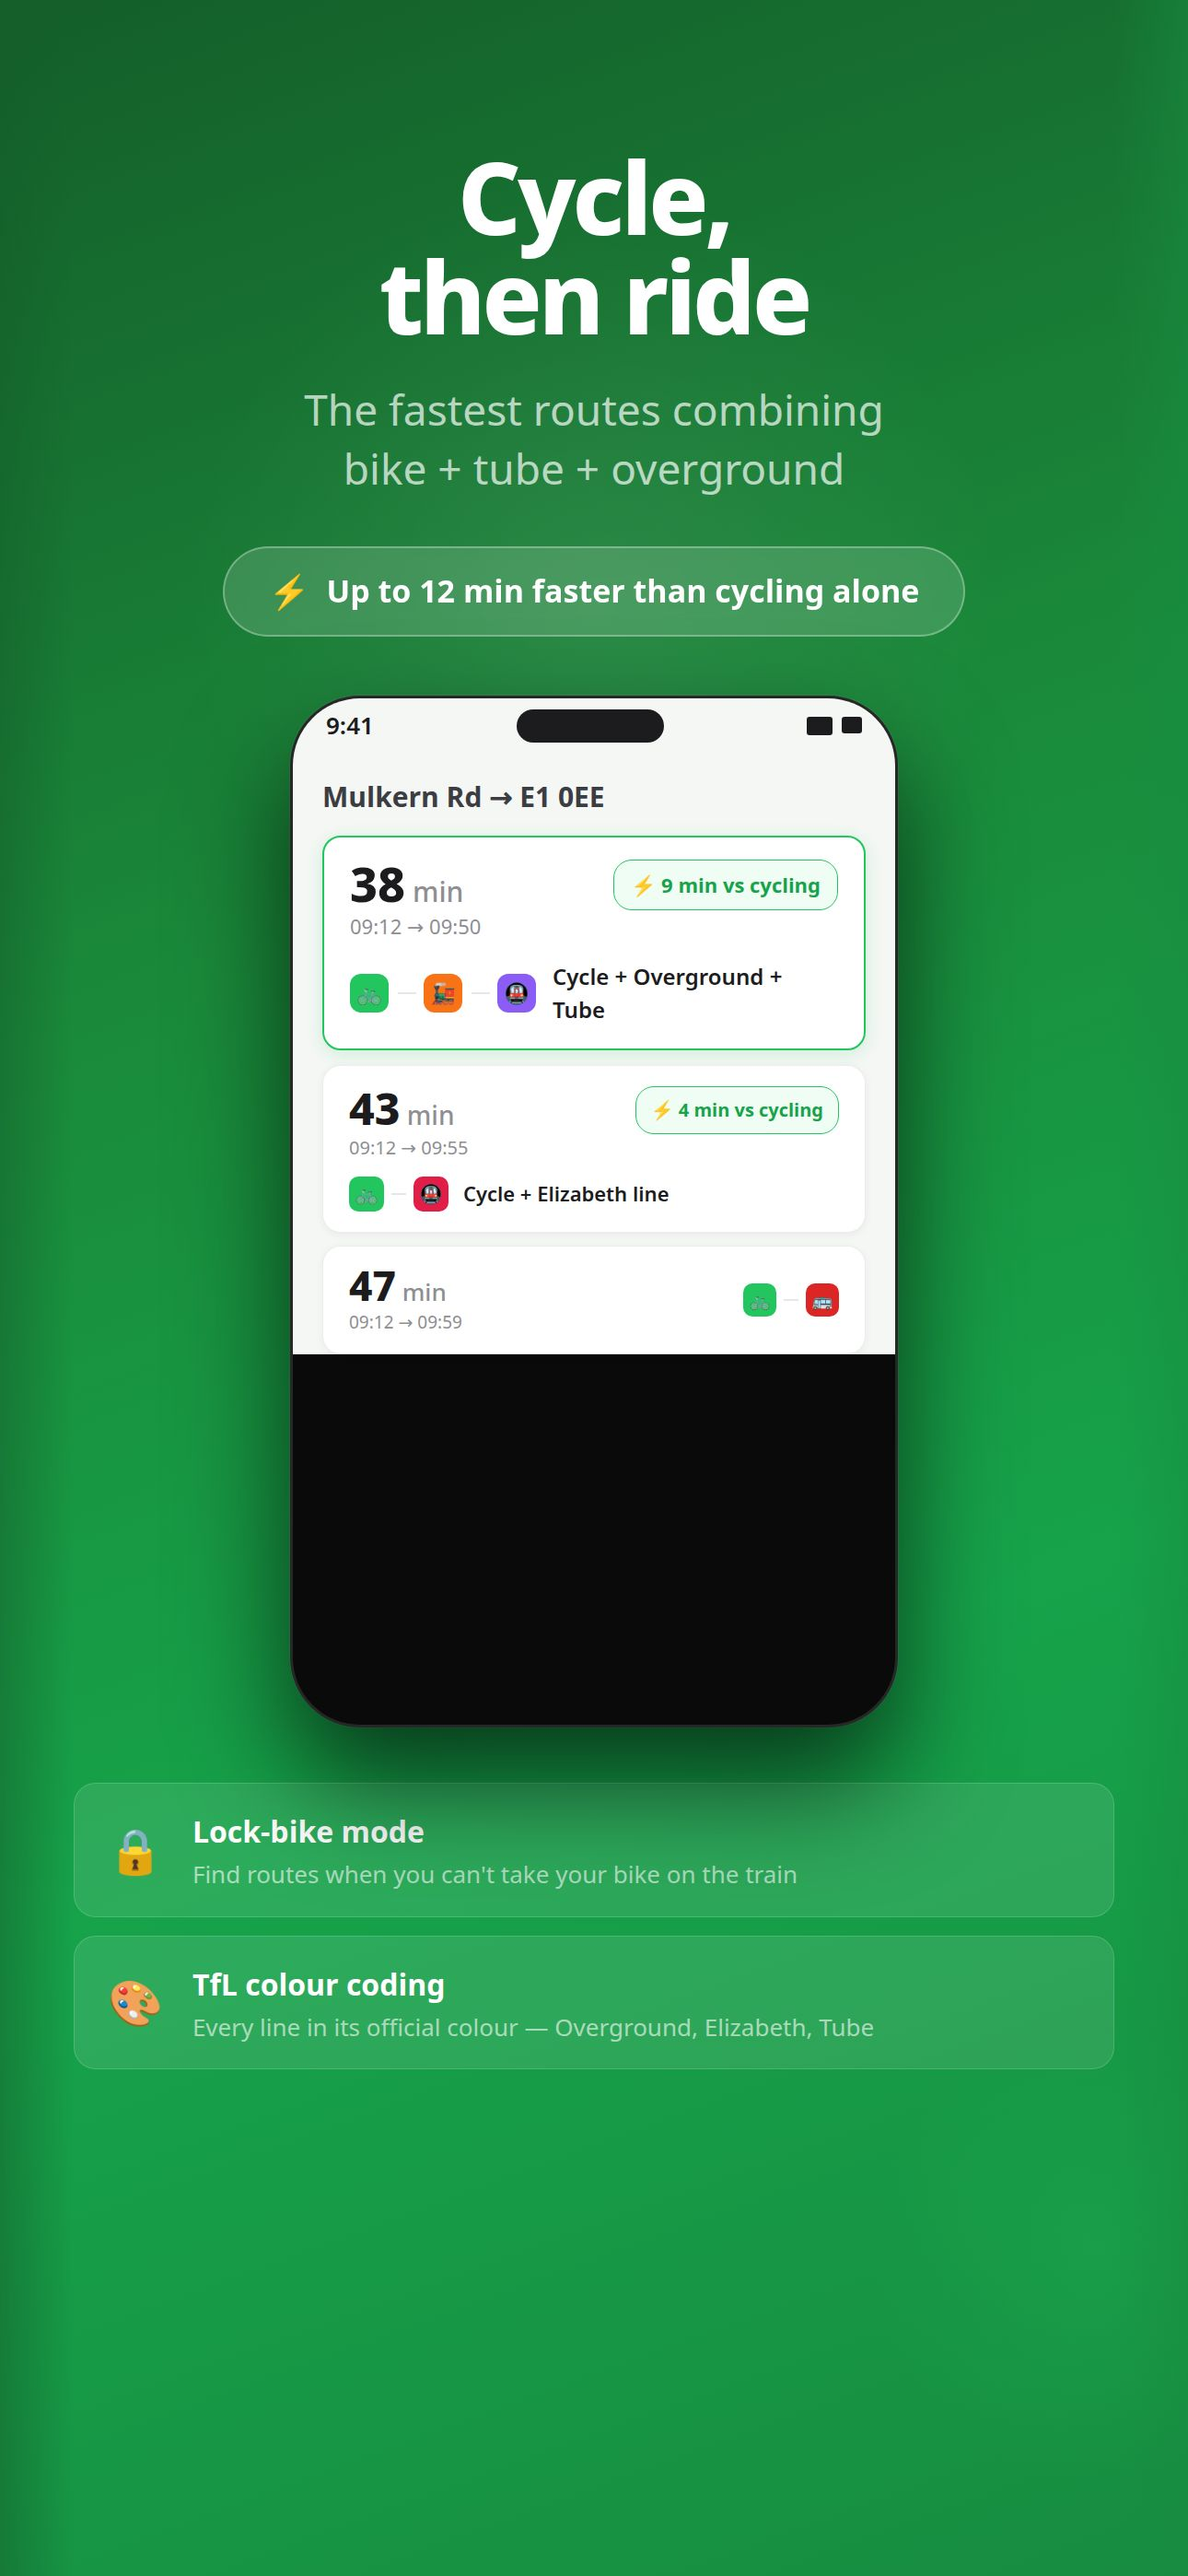
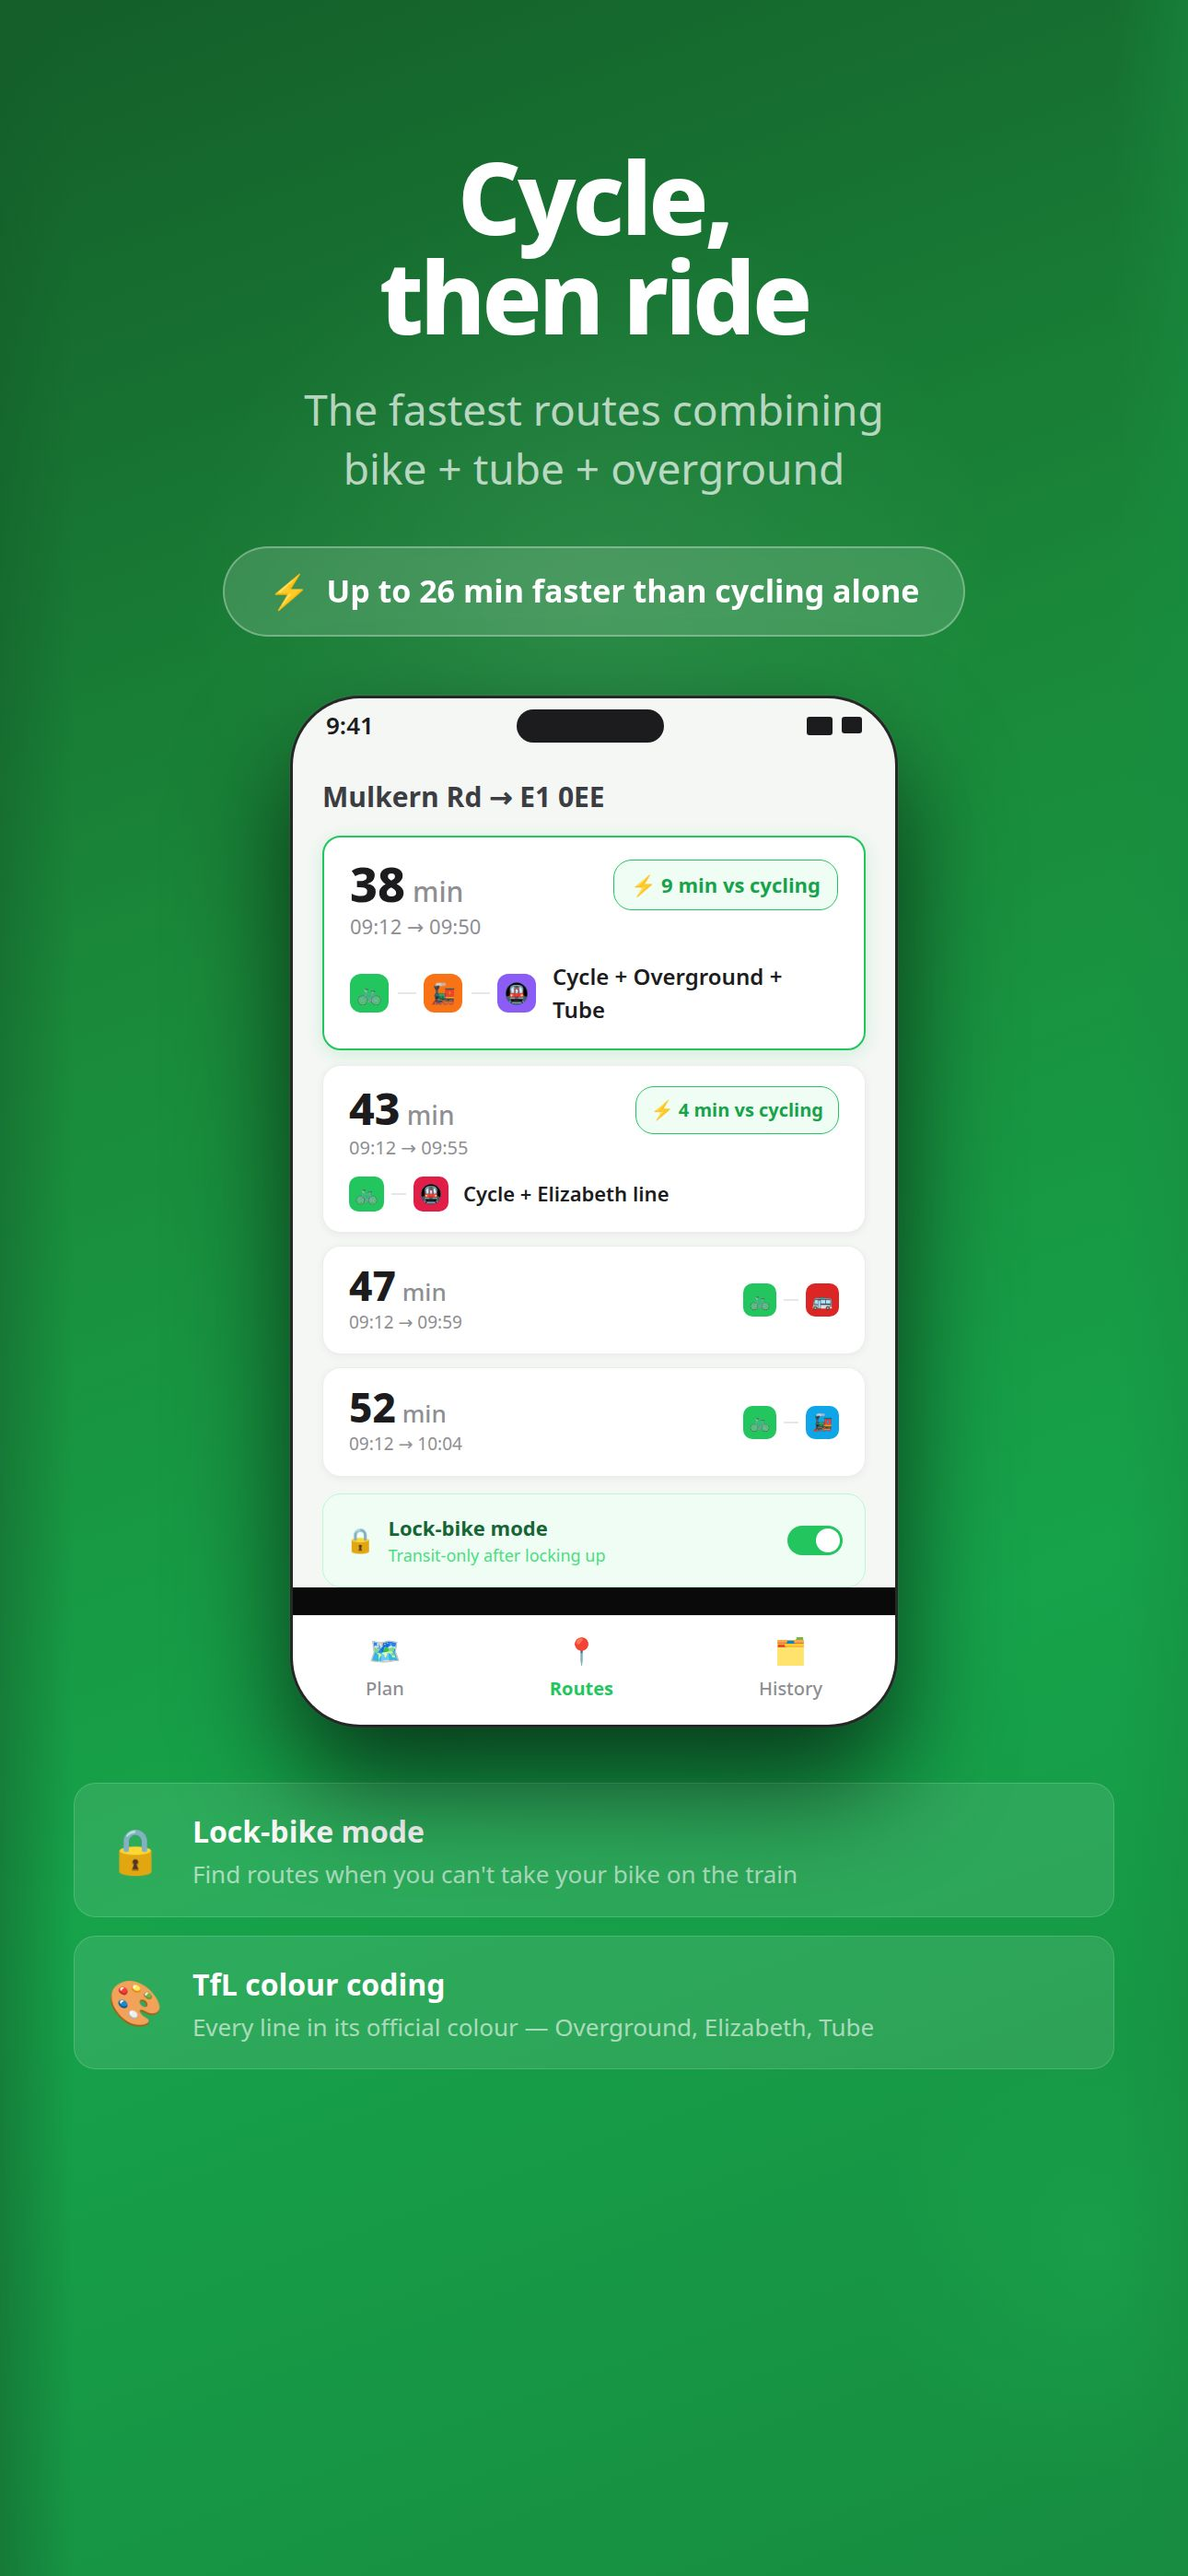
Update journey time and add more travel options to screenshot
Modify screenshot to display "Up to 26 min faster" and include an additional travel route option.

Replit-Commit-Author: Agent
Replit-Commit-Session-Id: 356e8f4e-18b7-42f0-8686-f8393e744dbd
Replit-Commit-Checkpoint-Type: full_checkpoint
Replit-Commit-Event-Id: 66d4798a-6848-4228-8dda-10a7ca990bed
Replit-Commit-Screenshot-Url: https://storage.googleapis.com/screenshot-production-us-central1/e2315b2b-6dc2-4ca1-8488-6559592e17c8/356e8f4e-18b7-42f0-8686-f8393e744dbd/PDcDs1d
Replit-Helium-Checkpoint-Created: true

Changed region(s): [[0.2481, 0.4979, 0.7752, 0.6845], [0.3411, 0.2178, 0.3721, 0.2489]]

diff --git a/artifacts/mockup-sandbox/src/components/mockups/Screenshot2.tsx b/artifacts/mockup-sandbox/src/components/mockups/Screenshot2.tsx
@@ -46,7 +46,7 @@ export default function Screenshot2() {
         backdropFilter: "blur(10px)",
       }}>
         <span style={{ fontSize: 36 }}>⚡</span>
-        <span style={{ fontSize: 34, fontWeight: 700, color: "white" }}>Up to 12 min faster than cycling alone</span>
+        <span style={{ fontSize: 34, fontWeight: 700, color: "white" }}>Up to 26 min faster than cycling alone</span>
       </div>
 
       {/* Phone mockup */}
@@ -153,13 +153,73 @@ export default function Screenshot2() {
                 <div style={{ fontSize: 44, fontWeight: 800, color: "#1c1c1e", lineHeight: 1 }}>47<span style={{ fontSize: 26, fontWeight: 500, color: "#8e8e93" }}> min</span></div>
                 <div style={{ fontSize: 19, color: "#8e8e93", marginTop: 4 }}>09:12 → 09:59</div>
               </div>
-              <div style={{ display: "flex", gap: 8 }}>
+              <div style={{ display: "flex", gap: 8, alignItems: "center" }}>
                 <div style={{ width: 36, height: 36, background: "#22c55e", borderRadius: 10, display: "flex", alignItems: "center", justifyContent: "center", fontSize: 18 }}>🚲</div>
-                <div style={{ width: 16, height: 2, background: "#e5e7eb", alignSelf: "center" }} />
+                <div style={{ width: 16, height: 2, background: "#e5e7eb" }} />
                 <div style={{ width: 36, height: 36, background: "#dc2626", borderRadius: 10, display: "flex", alignItems: "center", justifyContent: "center", fontSize: 18 }}>🚌</div>
               </div>
             </div>
           </div>
+
+          {/* Journey card 4 */}
+          <div style={{
+            background: "white", borderRadius: 20, padding: "20px 28px",
+            marginTop: 14, border: "1.5px solid rgba(0,0,0,0.07)",
+            boxShadow: "0 2px 10px rgba(0,0,0,0.05)",
+          }}>
+            <div style={{ display: "flex", justifyContent: "space-between", alignItems: "center" }}>
+              <div>
+                <div style={{ fontSize: 44, fontWeight: 800, color: "#1c1c1e", lineHeight: 1 }}>52<span style={{ fontSize: 26, fontWeight: 500, color: "#8e8e93" }}> min</span></div>
+                <div style={{ fontSize: 19, color: "#8e8e93", marginTop: 4 }}>09:12 → 10:04</div>
+              </div>
+              <div style={{ display: "flex", gap: 8, alignItems: "center" }}>
+                <div style={{ width: 36, height: 36, background: "#22c55e", borderRadius: 10, display: "flex", alignItems: "center", justifyContent: "center", fontSize: 18 }}>🚲</div>
+                <div style={{ width: 16, height: 2, background: "#e5e7eb" }} />
+                <div style={{ width: 36, height: 36, background: "#0ea5e9", borderRadius: 10, display: "flex", alignItems: "center", justifyContent: "center", fontSize: 18 }}>🚂</div>
+              </div>
+            </div>
+          </div>
+
+          {/* Lock-bike toggle row */}
+          <div style={{
+            marginTop: 18,
+            background: "#f0fdf4", borderRadius: 20, padding: "20px 24px",
+            display: "flex", alignItems: "center", justifyContent: "space-between",
+            border: "1.5px solid #bbf7d0",
+          }}>
+            <div style={{ display: "flex", alignItems: "center", gap: 14 }}>
+              <span style={{ fontSize: 26 }}>🔒</span>
+              <div>
+                <div style={{ fontSize: 22, fontWeight: 700, color: "#166534" }}>Lock-bike mode</div>
+                <div style={{ fontSize: 18, color: "#4ade80" }}>Transit-only after locking up</div>
+              </div>
+            </div>
+            <div style={{
+              width: 60, height: 32, background: "#22c55e", borderRadius: 16,
+              position: "relative",
+            }}>
+              <div style={{ position: "absolute", right: 3, top: 3, width: 26, height: 26, background: "white", borderRadius: "50%" }} />
+            </div>
+          </div>
+        </div>
+
+        {/* Bottom tab bar */}
+        <div style={{
+          position: "absolute", bottom: 0, left: 0, right: 0,
+          background: "white", borderTop: "1px solid #e5e7eb",
+          display: "flex", justifyContent: "space-around", alignItems: "center",
+          padding: "16px 0 24px",
+        }}>
+          {[
+            { icon: "🗺", label: "Plan", active: false },
+            { icon: "📍", label: "Routes", active: true },
+            { icon: "🗂", label: "History", active: false },
+          ].map(({ icon, label, active }, i) => (
+            <div key={i} style={{ display: "flex", flexDirection: "column", alignItems: "center", gap: 6 }}>
+              <span style={{ fontSize: 28 }}>{icon}</span>
+              <span style={{ fontSize: 20, fontWeight: active ? 700 : 500, color: active ? "#22c55e" : "#8e8e93" }}>{label}</span>
+            </div>
+          ))}
         </div>
       </div>
 
